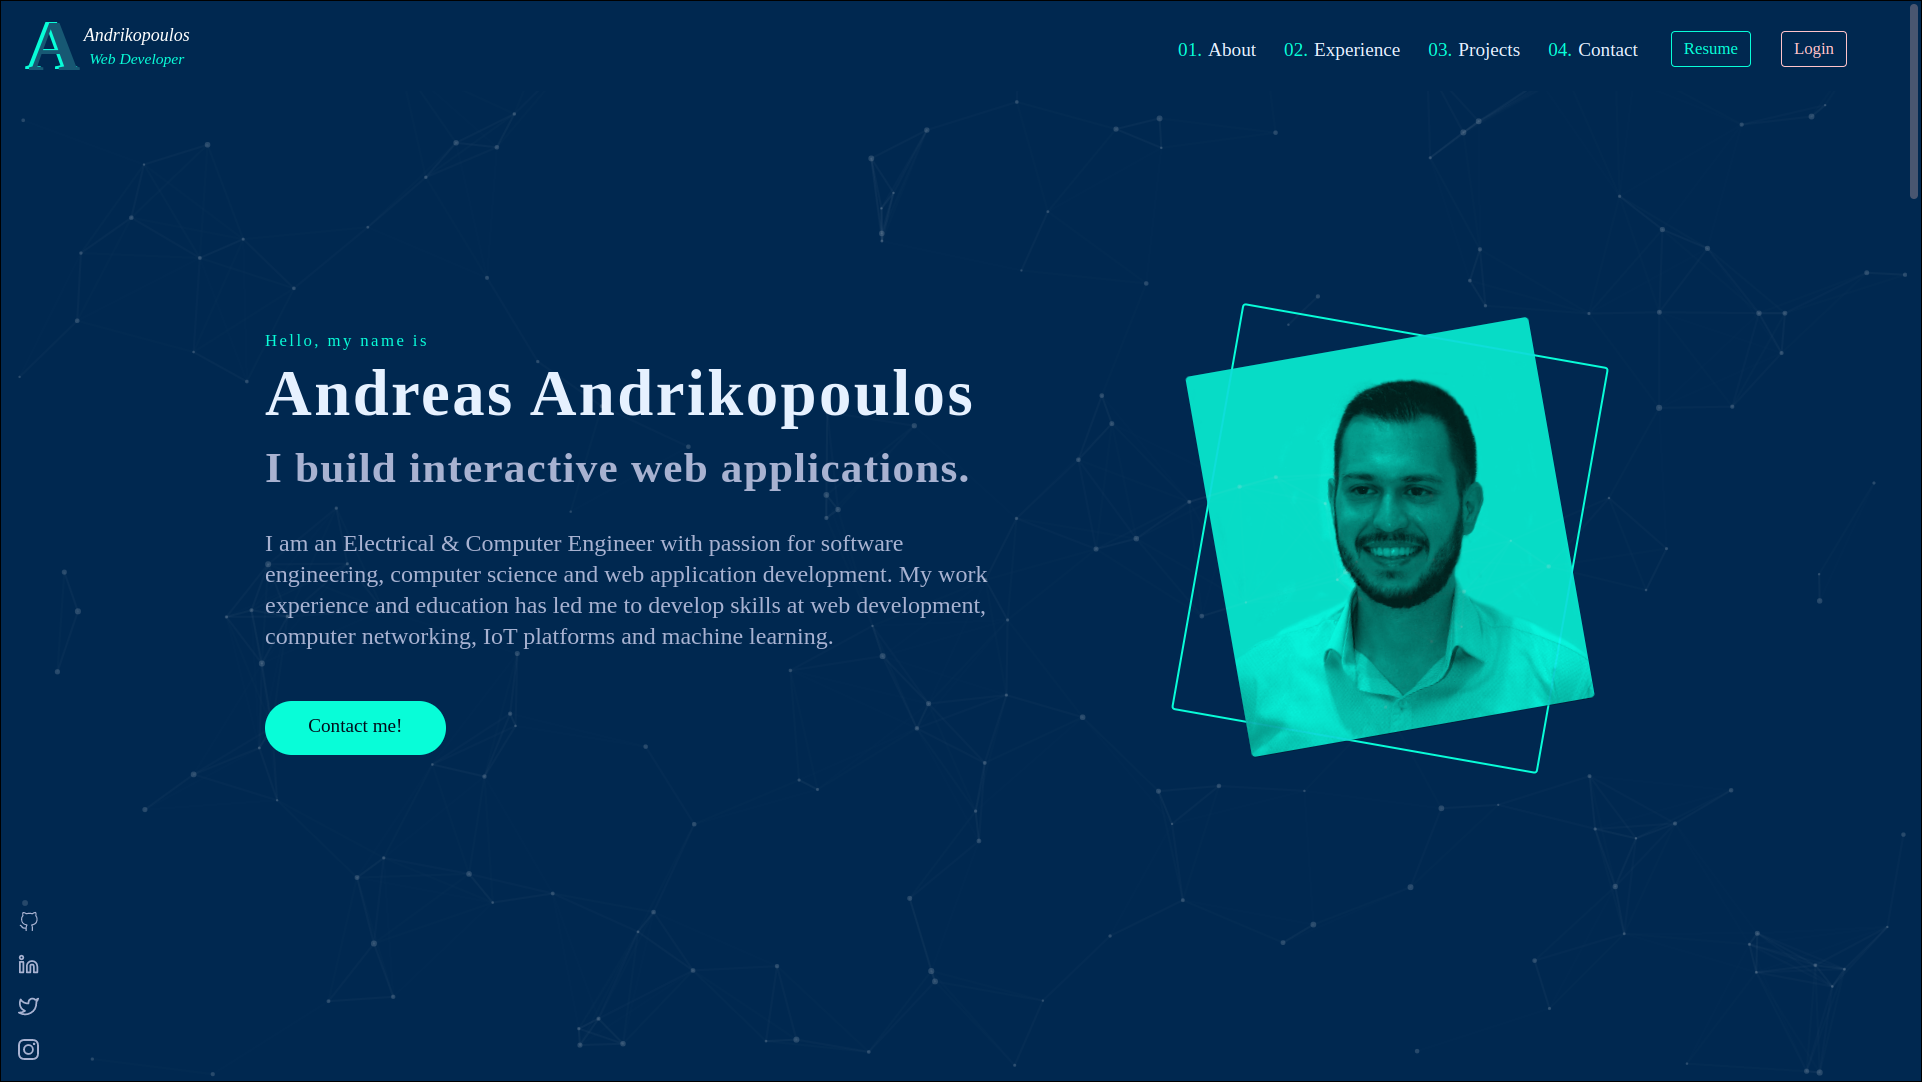
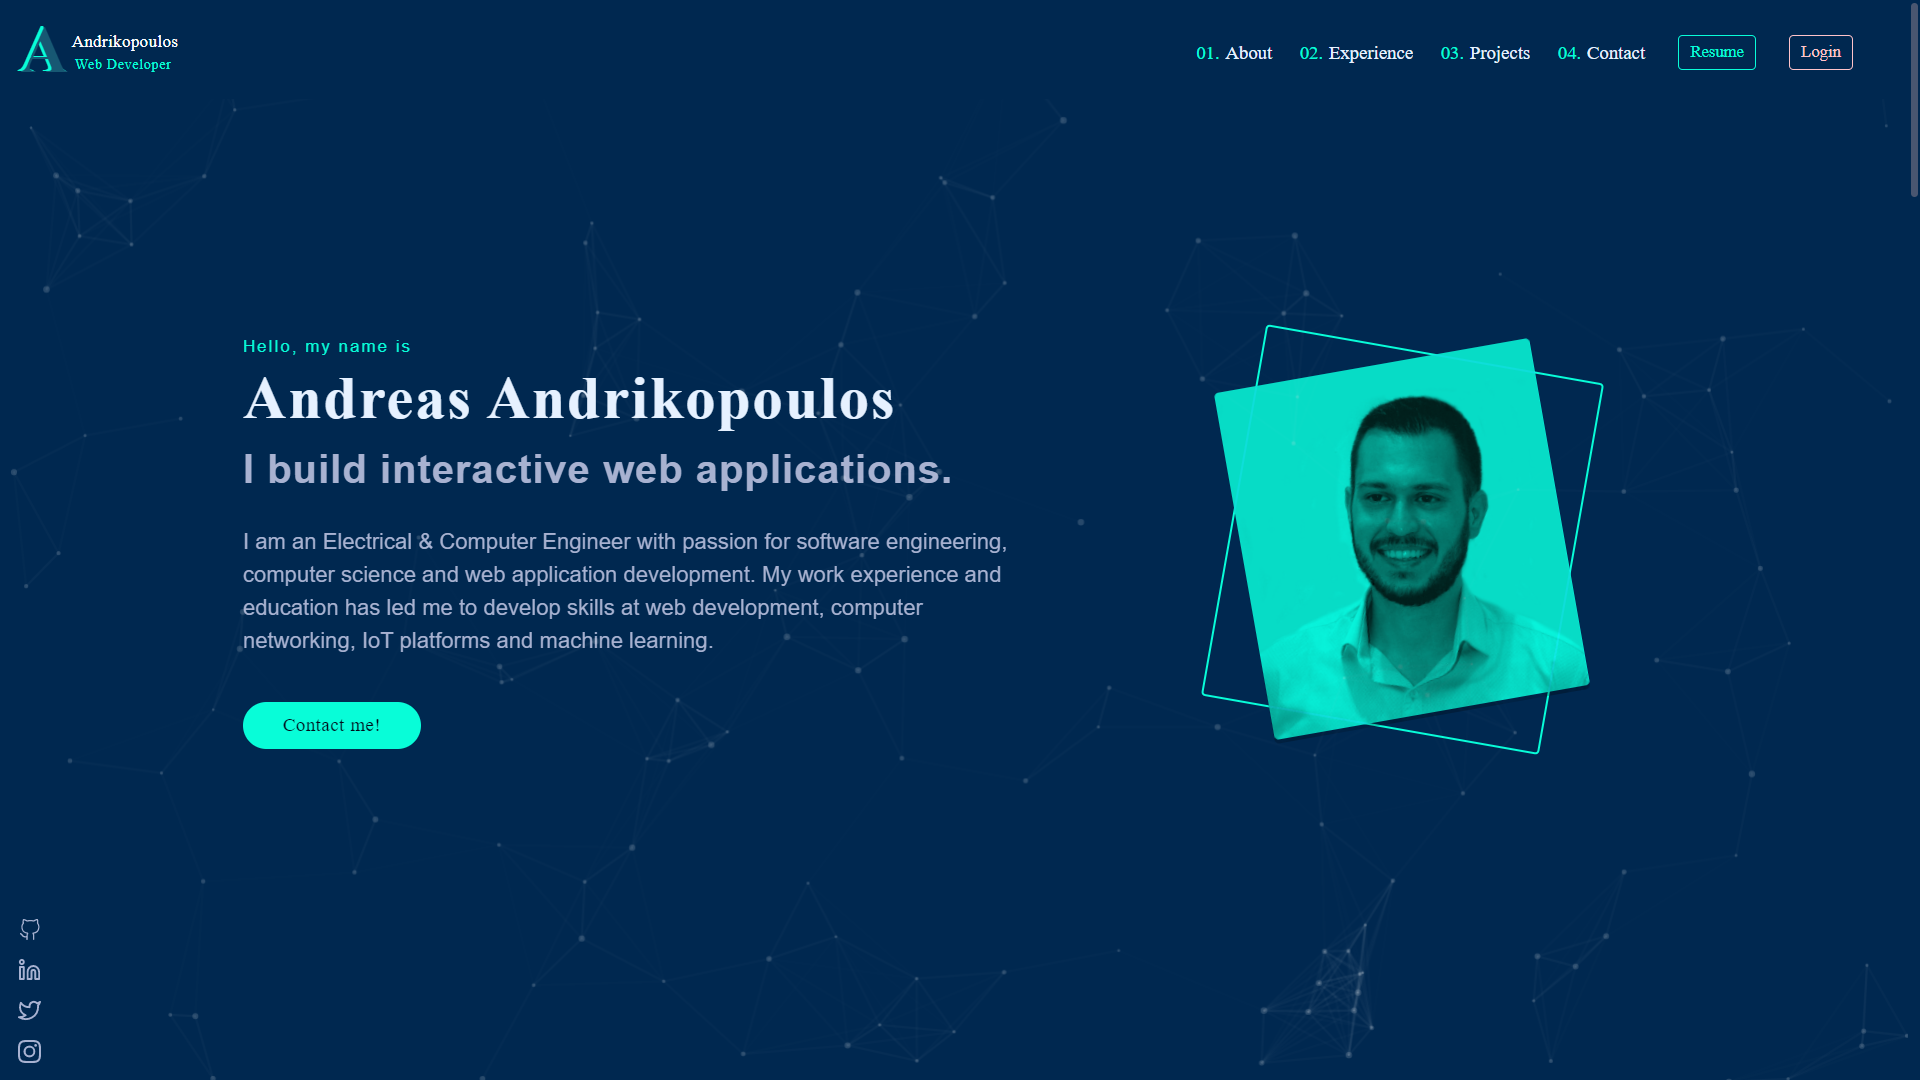
Fix fonts size on mui forms

diff --git a/src/components/Dashboard/Experience/JobInfo.js b/src/components/Dashboard/Experience/JobInfo.js
@@ -10,6 +10,8 @@ import { Box } from "@mui/system";
 import { useNavigate } from "react-router-dom";
 import DeleteIcon from "@mui/icons-material/Delete";
 
+const fontSize = { fontSize: "var(--fonts-mui-size)" };
+
 const JobInfo = ({
   position,
   positionChange,
@@ -61,7 +63,6 @@ const JobInfo = ({
               type="button"
               className="small-button"
               style={{
-                margin: "0",
                 border: "1px solid var(--navy)",
                 color: "var(--navy)",
                 backgroundColor: "var(--green-tint)",
@@ -82,6 +83,7 @@ const JobInfo = ({
             <OutlinedInput
               label="Job position"
               value={position}
+              sx={fontSize}
               onChange={positionChange}
               error={!positionIsValid}
             />
@@ -98,6 +100,7 @@ const JobInfo = ({
               value={organization}
               onChange={organizationChange}
               error={!organizationIsValid}
+              sx={fontSize}
             />
           </FormControl>
         </Grid>
@@ -112,6 +115,7 @@ const JobInfo = ({
               value={date}
               onChange={dateChange}
               error={!dateIsValid}
+              sx={fontSize}
             />
           </FormControl>
         </Grid>
@@ -126,14 +130,15 @@ const JobInfo = ({
               value={link}
               onChange={linkChange}
               error={!linkIsValid}
+              sx={fontSize}
             />
           </FormControl>
         </Grid>
 
         <br />
         <br />
-        <Grid item xs={12} style={{ padding: "25px 40px 5px 0px" }}>
-          <h3 style={{ margin: "0" }}>Descriptions of the Job</h3>
+        <Grid item xs={12} style={{ padding: "45px 40px 5px 0px" }}>
+          <h3>Descriptions of the Job</h3>
         </Grid>
 
         <Grid item xs={12} style={{ padding: "25px 40px 5px 40px" }}>
@@ -162,6 +167,7 @@ const JobInfo = ({
                 multiline
                 rows={2}
                 value={desc}
+                sx={fontSize}
                 onChange={(event) => changeDescValue(event, index)}
                 endAdornment={
                   <InputAdornment position="end">

diff --git a/src/components/Dashboard/Projects/ProjectInfo.js b/src/components/Dashboard/Projects/ProjectInfo.js
@@ -10,6 +10,8 @@ import DeleteIcon from "@mui/icons-material/Delete";
 import { useNavigate } from "react-router-dom";
 import { Box } from "@mui/system";
 
+const fontSize = { fontSize: "var(--fonts-mui-size)" };
+
 const ProjectInfo = ({
   tools,
   setTools,
@@ -87,6 +89,7 @@ const ProjectInfo = ({
               value={title}
               onChange={titleChange}
               error={!titleIsValid}
+              sx={fontSize}
             />
           </FormControl>
         </Grid>
@@ -101,6 +104,7 @@ const ProjectInfo = ({
               value={subtitle}
               onChange={subtitleChange}
               error={!subtitleIsValid}
+              sx={fontSize}
             />
           </FormControl>
         </Grid>
@@ -115,6 +119,7 @@ const ProjectInfo = ({
               value={link}
               onChange={linkChange}
               error={!linkIsValid}
+              sx={fontSize}
             />
           </FormControl>
         </Grid>
@@ -129,6 +134,7 @@ const ProjectInfo = ({
               value={github}
               onChange={githubChange}
               error={!gitIsValid}
+              sx={fontSize}
             />
           </FormControl>
         </Grid>
@@ -146,14 +152,15 @@ const ProjectInfo = ({
               value={description}
               onChange={descriptionChange}
               error={!descriptionIsValid}
+              sx={fontSize}
             />
           </FormControl>
         </Grid>
 
         <br />
         <br />
-        <Grid item xs={12} style={{ padding: "25px 40px 5px 0px" }}>
-          <h3 style={{ margin: "0" }}>Technologies Used</h3>
+        <Grid item xs={12} style={{ padding: "45px 40px 5px 0px" }}>
+          <h3>Technologies Used</h3>
         </Grid>
 
         <Grid item xs={12} style={{ padding: "25px 40px 5px 40px" }}>
@@ -176,6 +183,7 @@ const ProjectInfo = ({
                 label="Project tools"
                 value={tool}
                 onChange={(event) => changeToolValue(event, index)}
+                sx={fontSize}
                 endAdornment={
                   <InputAdornment position="end">
                     <IconButton

diff --git a/src/styles/style.css b/src/styles/style.css
@@ -46,6 +46,7 @@ ORDER: Base + typography > general layout + grid > page layout > components
   --font-mono: "SF Mono", "Fira Code", "Fira Mono", "Roboto Mono", monospace;
   --fonts-xxxs: 1em;
   --fonts-xxs: 1.2em;
+  --fonts-mui-size: 1.4rem;
   --tabs-size: 1.6rem;
   --fonts-xs: 1.5rem;
   --fonts-sm: 1.7rem;
@@ -1174,7 +1175,7 @@ nav .nav--links .login-button-main {
   -webkit-animation: bottomUp 1s;
 }
 .hero__contact-button {
-  padding: 0.8rem 3.6rem;
+  padding: 1rem 3.2rem;
   letter-spacing: 0.5px;
   border-radius: 100px;
   background-color: var(--green);
@@ -1788,12 +1789,14 @@ leaflet-popup-content-wrapper,
   }
   .section-experience,
 .section-hero,
-.section-contact,
-.section-projects {
+.section-contact {
     padding: 10rem 4rem;
   }
   .section-projects {
-    padding: 25rem 4rem 10rem 4rem;
+    padding: 13rem 4rem 10rem 4rem;
+  }
+  .section-experience {
+    min-height: 50vh;
   }
   .nav-admin {
     margin-right: 1rem;
@@ -1824,7 +1827,7 @@ leaflet-popup-content-wrapper,
     padding: 0 0rem;
   }
   .section-projects {
-    padding: 35rem 3rem 15rem 3rem;
+    padding: 15rem 3rem 15rem 3rem;
   }
   .project-container:nth-child(even) .carousel-root, .project-container:nth-child(odd) .carousel-root {
     height: 190px !important;
@@ -1875,6 +1878,16 @@ leaflet-popup-content-wrapper,
   }
   .project-container:nth-child(even) .project-tools li:not(:last-child), .project-container:nth-child(odd) .project-tools li:not(:last-child) {
     margin-right: 7px;
+  }
+}
+@media only screen and (max-width: 350px) {
+  .section-projects {
+    padding: 25rem 3rem 15rem 3rem;
+  }
+}
+@media only screen and (max-width: 300px) {
+  .section-projects {
+    margin: 20rem 3rem 15rem 3rem;
   }
 }
 @media only screen and (max-width: 745px) {

diff --git a/src/styles/responsiveness/_index.scss b/src/styles/responsiveness/_index.scss
@@ -140,13 +140,16 @@
   @include grid_on_verySmallScreen;
   .section-experience,
   .section-hero,
-  .section-contact,
-  .section-projects {
+  .section-contact {
     padding: 10rem 4rem;
   }
 
   .section-projects {
-    padding: 25rem 4rem 10rem 4rem;
+    padding: 13rem 4rem 10rem 4rem;
+  }
+
+  .section-experience {
+    min-height: 50vh;
   }
 
   .nav-admin {
@@ -189,7 +192,7 @@
   }
 
   .section-projects {
-    padding: 35rem 3rem 15rem 3rem;
+    padding: 15rem 3rem 15rem 3rem;
   }
 
   .project-container {
@@ -216,6 +219,18 @@
         }
       }
     }
+  }
+}
+
+@media only screen and (max-width: 350px) {
+  .section-projects {
+    padding: 25rem 3rem 15rem 3rem;
+  }
+}
+
+@media only screen and (max-width: 300px) {
+  .section-projects {
+    margin: 20rem 3rem 15rem 3rem;
   }
 }
 

diff --git a/src/assets/icons/MyLogo.js b/src/assets/icons/MyLogo.js
@@ -23,10 +23,9 @@ const MyLogo = (props) => {
         dy="0"
         fontFamily='"Times"'
         fontSize="64"
-        fontStyle="italic"
         fontWeight={props.fontWeight || "400"}
         textDecoration="none"
-        transform="translate(102.394 154.345)"
+        transform="translate(100.394 154.345)"
       >
         <tspan y="0">AA</tspan>
       </text>

diff --git a/src/components/Dashboard/Projects/ProjectForm.js b/src/components/Dashboard/Projects/ProjectForm.js
@@ -133,7 +133,7 @@ const ProjectForm = () => {
           className="paper-container"
           sx={{
             borderRadius: 1,
-            padding: "1rem 1rem 2rem 2rem",
+            padding: "1.5rem 2rem",
             background: "var(--lightesttt-slate)",
             boxShadow: "-1rem -0.5rem 4rem rgba(0, 0, 0, 0.4)",
           }}

diff --git a/src/components/Dashboard/Experience/JobForm.js b/src/components/Dashboard/Experience/JobForm.js
@@ -112,7 +112,7 @@ const JobForm = () => {
           className="paper-container"
           sx={{
             borderRadius: 1,
-            padding: "1rem 1rem 2rem 2rem",
+            padding: "1.5rem 2rem",
             background: "var(--lightesttt-slate)",
             boxShadow: "-1rem -0.5rem 4rem rgba(0, 0, 0, 0.4)",
           }}

diff --git a/src/styles/pages/_hero.scss b/src/styles/pages/_hero.scss
@@ -21,7 +21,7 @@
   }
 
   &__contact-button {
-    padding: 0.8rem 3.6rem;
+    padding: 1rem 3.2rem;
     letter-spacing: 0.5px;
     border-radius: 100px;
     background-color: var(--green);

diff --git a/src/styles/abstracts/_variables.scss b/src/styles/abstracts/_variables.scss
@@ -35,6 +35,7 @@
   // Font size
   --fonts-xxxs: 1em;
   --fonts-xxs: 1.2em;
+  --fonts-mui-size: 1.4rem;
   --tabs-size: 1.6rem;
   --fonts-xs: 1.5rem;
   --fonts-sm: 1.7rem;
